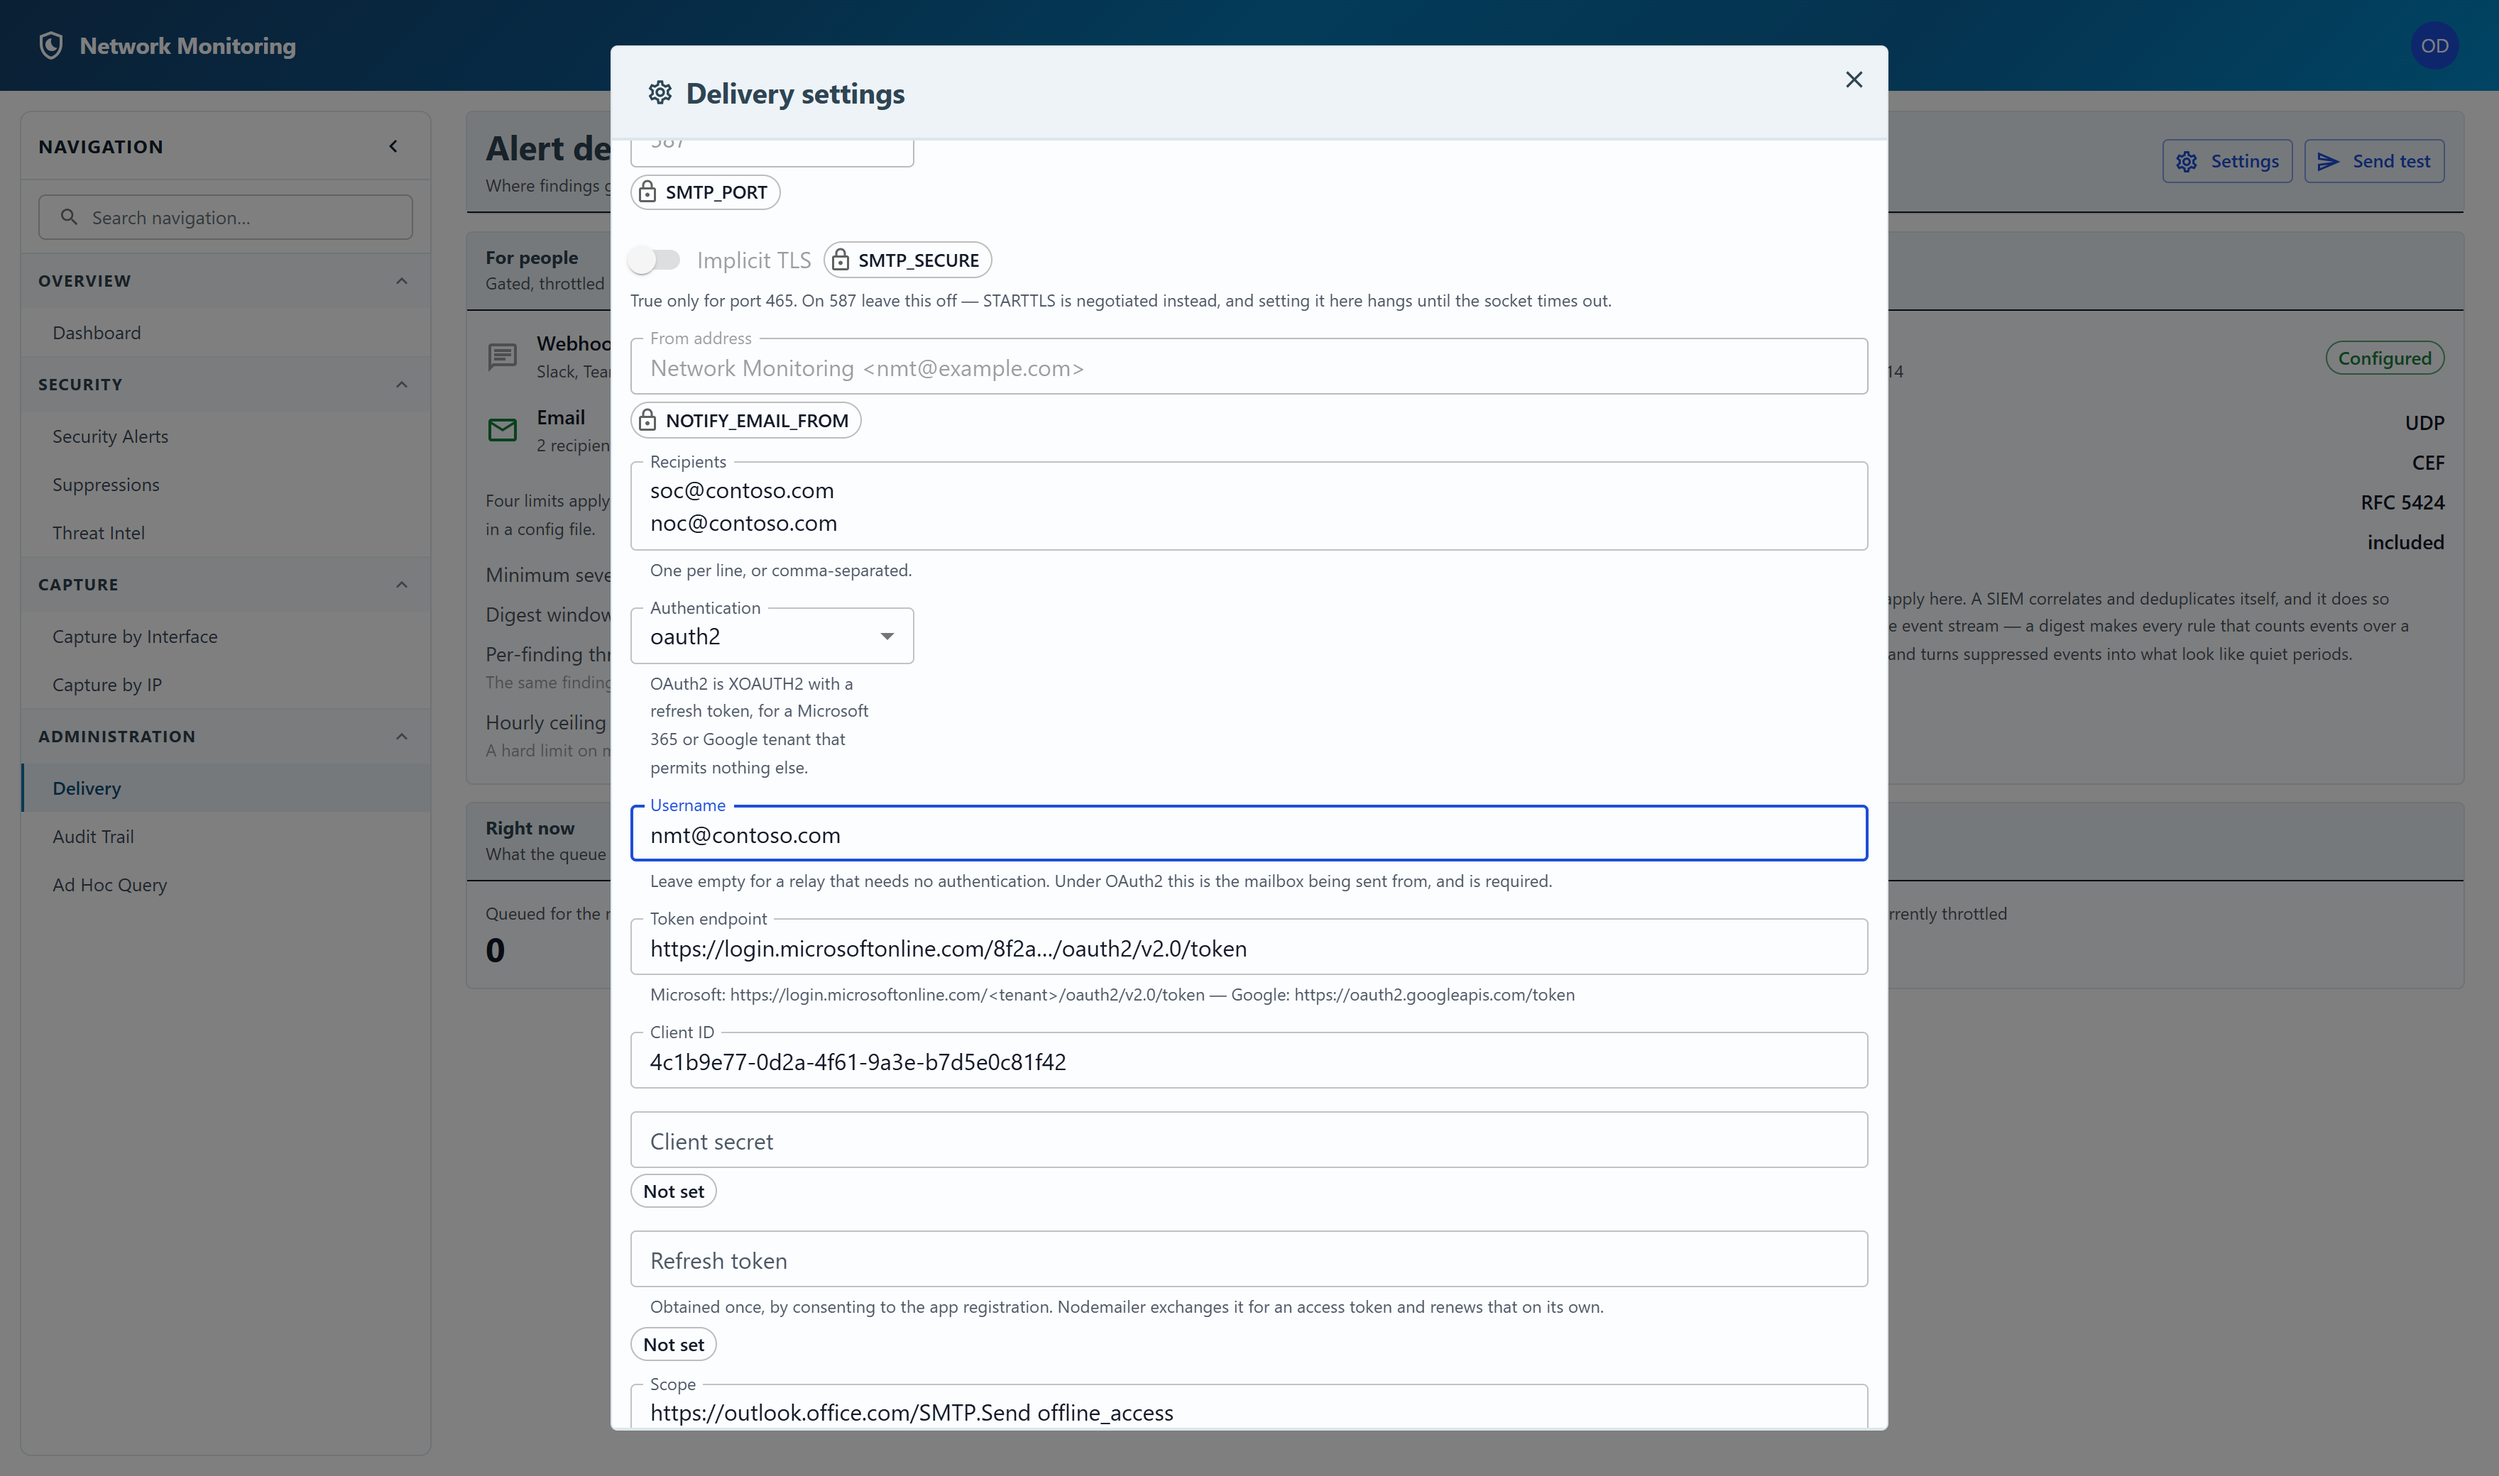
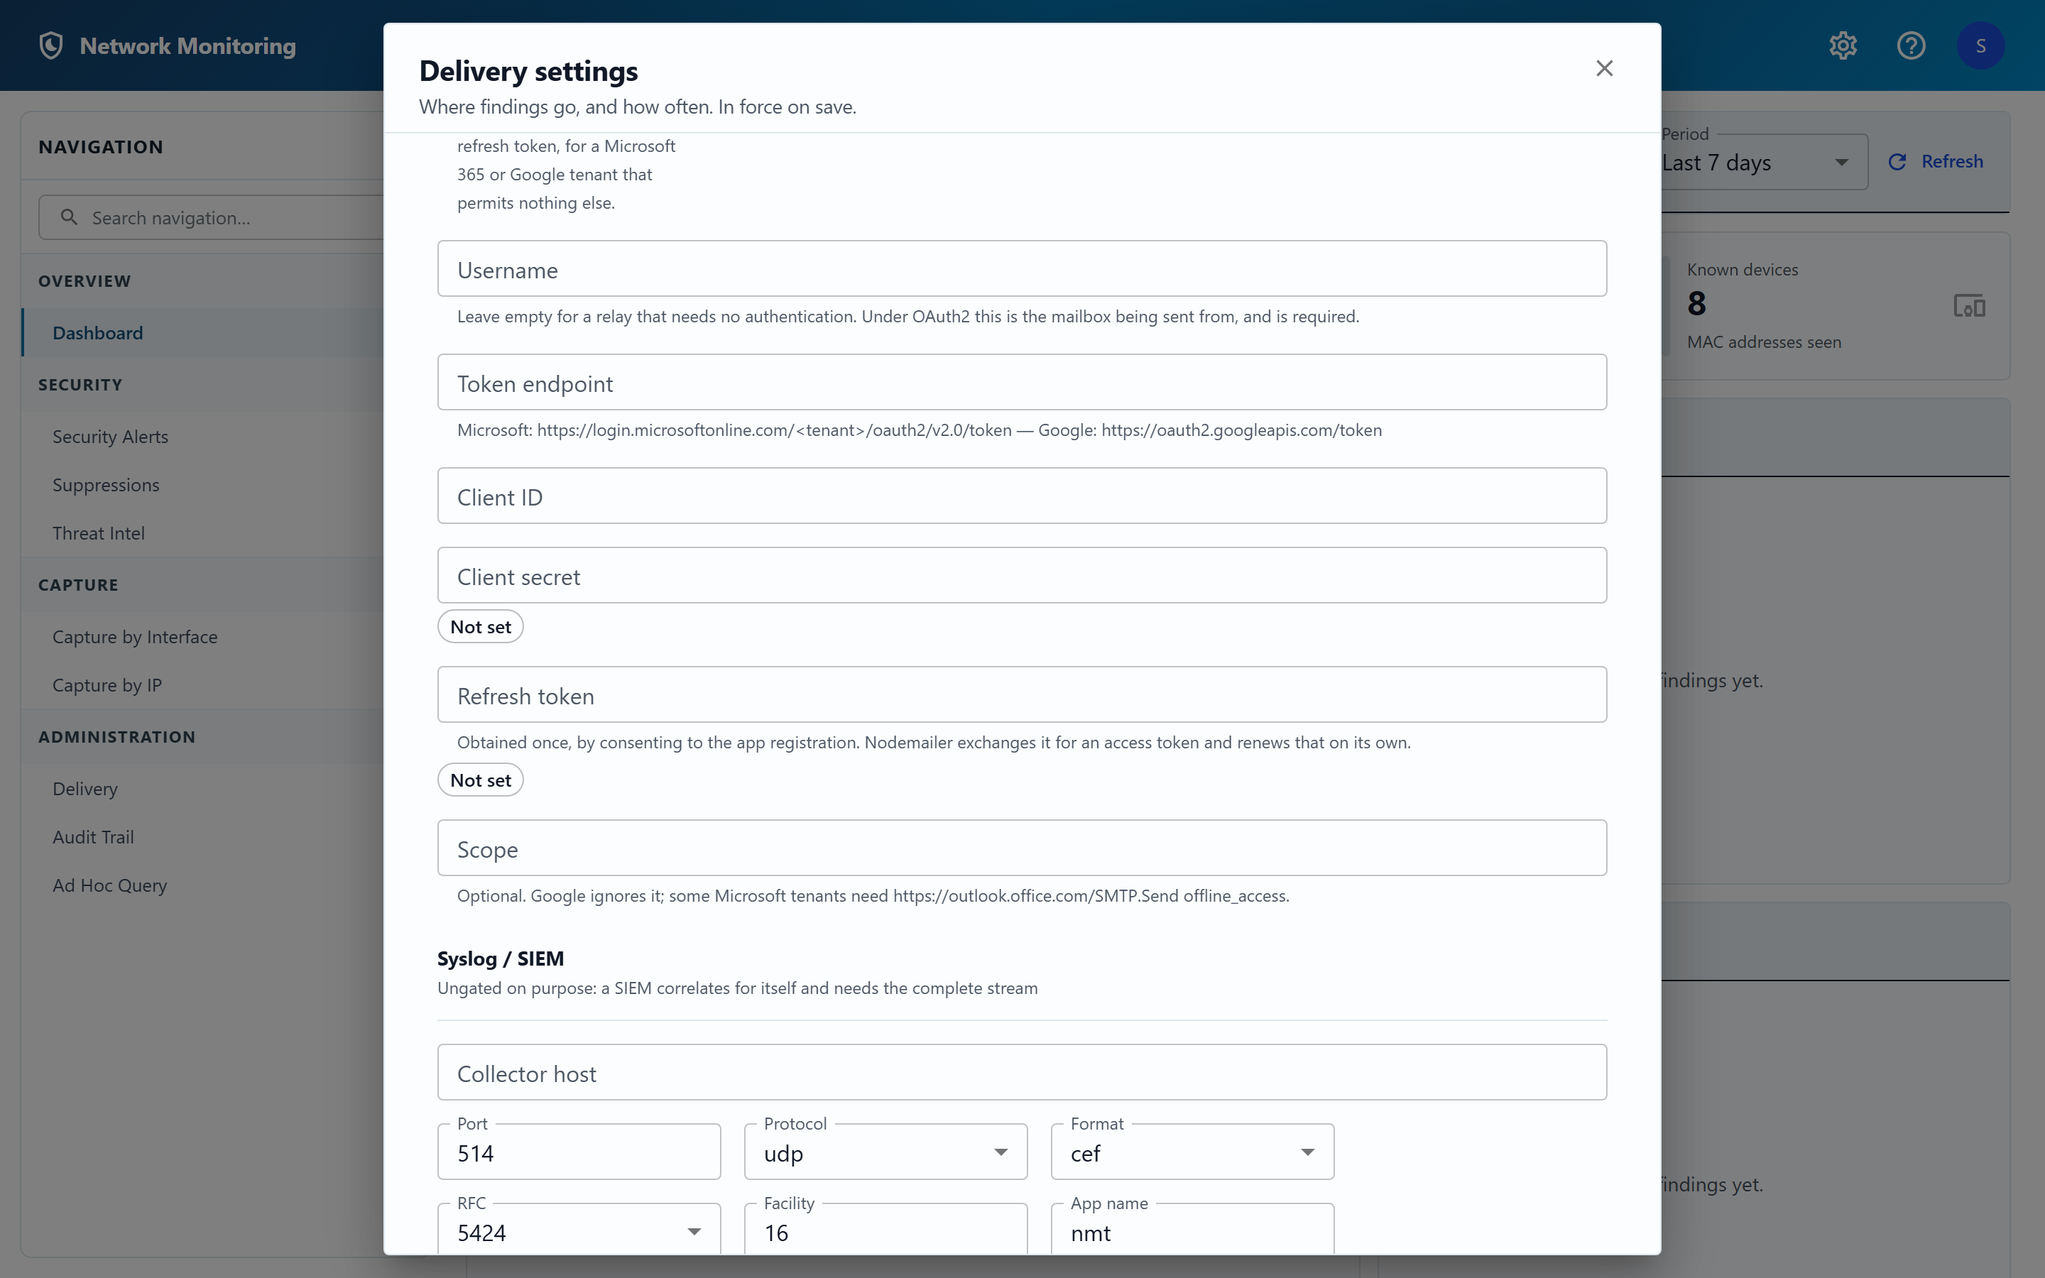
Recapture the screenshots, with a script instead of by hand
They had gone stale twice — wholesale after the MUI rewrite (e14c47e), and again
when the delivery settings moved under the administration gear. A screenshot of
a screen that no longer exists is the one a reader trusts over the application in
front of them, so this makes recapturing a command rather than a chore.

Recaptured: delivery, delivery-settings, delivery-settings-oauth2, adhoc-query.
New: administration-settings, query-console-settings. The
administration-settings figure was commented out last commit because the file did
not exist; it is back, and the guide references the new console one too.

Two things the script had to get right, both found by looking at the output
rather than by reasoning:

  * The first run photographed the administration panel half-transparent and
    mid-slide. `waitFor({ state: 'visible' })` returns on the first frame of a
    MUI popover's fade-and-scale, so the shot was of an animation. `settle()`
    injects `transition: none` — which ends whatever is in flight rather than
    racing it — and waits a frame.

  * The OAuth2 shot has to switch the authentication method, not just scroll:
    the form shows one method's fields at a time on purpose, so a password box
    is never offered on an OAuth2 mailbox.

`playwright` is deliberately NOT a dependency. It is a browser download for a
task nobody runs in CI, and adding it would put it in every install and every
`npm audit` — which the README lists as clean. Install it when recapturing.
[…]

diff --git a/user-guide/topics/administration-settings.html b/user-guide/topics/administration-settings.html
@@ -22,23 +22,11 @@ without editing a file or restarting anything.</p>
 anyone else by the server as well, so the hidden gear is a tidier interface rather
 than the thing keeping you out.</p>
 
-<!--
-  SCREENSHOT WANTED: user-guide/screenshots/administration-settings.png
-
-  The gear open, showing all three groups and their tools. Signed in as an
-  administrator, otherwise the gear is not there to photograph.
-
-  Left out rather than referenced-and-missing: a broken image is worse than no
-  image, and `user-guide-links.test.ts` fails on a reference with no file — which
-  is how this note came to exist rather than a broken picture shipping. Restore
-  the figure below when the file is in place:
-
-  <figure>
-    <img src="../screenshots/administration-settings.png" alt="The administration panel, listing its tools by group.">
-    <figcaption>The panel lists its tools by group. Each opens over the page you were
-    on, and can be dragged aside.</figcaption>
-  </figure>
--->
+<figure>
+  <img src="../screenshots/administration-settings.png" alt="The administration panel, listing its tools by group.">
+  <figcaption>The panel lists its tools by group. Each opens over the page you were
+  on, and can be dragged aside.</figcaption>
+</figure>
 
 <p>Each tool opens in a panel you can <strong>drag by its title bar</strong>, so you can
 move it aside to read the page underneath &mdash; usually the numbers you are trying to

diff --git a/user-guide/topics/adhoc-query.html b/user-guide/topics/adhoc-query.html
@@ -47,6 +47,12 @@ dropping a live capture to reconfigure a console. If the console will not start,
 <span class="ui">Query console</span> tool next to it says which of three reasons and what
 to do about each.</p>
 
+<figure>
+  <img src="../screenshots/query-console-settings.png" alt="The query console settings, with its switches, limits and password field.">
+  <figcaption>Switching it on, and its limits. A field the server's configuration pins
+  is shown disabled with the variable that pinned it.</figcaption>
+</figure>
+
 <div class="note">
   <span class="label">Worth knowing</span>
   <p>Without a password the console cannot start whatever the switches say &mdash; it is

diff --git a/README.md b/README.md
@@ -1847,6 +1847,25 @@ are also the illustrations in the [user guide](user-guide/index.html), which cov
 same screens from an operator's side rather than a developer's: what each one is telling
 you, and which actions each role is allowed to take.
 
+They are captured by a script rather than by hand, which is why: they had gone stale
+twice — once wholesale after the MUI rewrite, and again when the delivery settings moved
+under the administration gear. A screenshot of a screen that no longer exists is the one
+a reader trusts over the application in front of them.
+
+```bash
+npm run dev                                   # in another terminal
+npm i -D playwright && npx playwright install chromium   # once
+SHOT_EMAIL=you@example.com SHOT_PASSWORD='...' node scripts/capture-screenshots.mjs
+node scripts/capture-screenshots.mjs delivery administration-settings   # or just these
+```
+
+`playwright` is deliberately **not** a dependency of this project: it is a browser
+download for a task nobody runs in CI, and adding it would put it in every install and
+every `npm audit`. Install it when you need to recapture. Credentials come from the
+environment rather than arguments so a shell history does not keep them, and each shot
+signs in fresh — a shot that depended on the state the last one left behind changes when
+the order does, and the failure looks like a UI bug rather than a script bug.
+
 **Dashboard** — what the detectors found, and which hosts keep appearing
 
 ![Dashboard](./user-guide/screenshots/dashboard.png)
